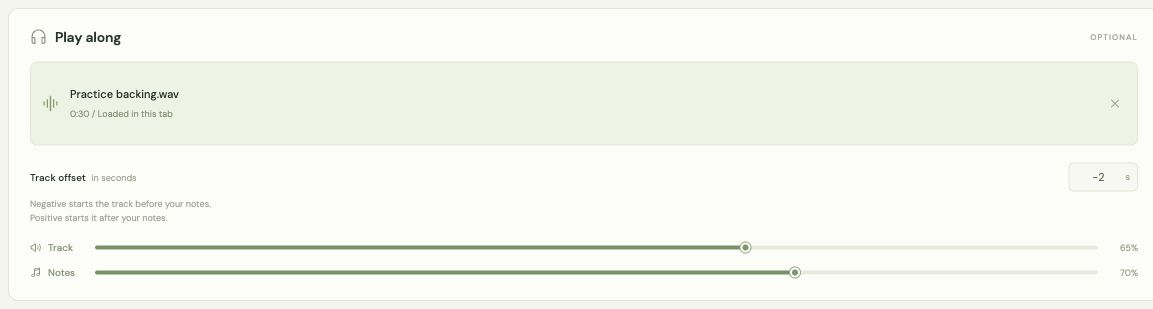
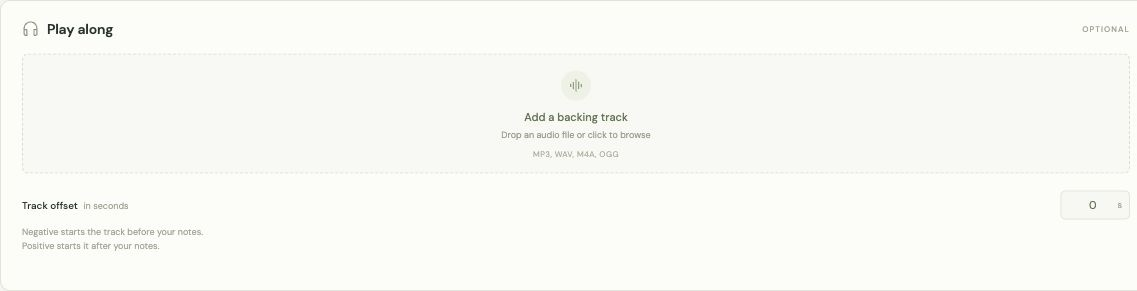
Move Track and Notes volume sliders into the player (#2)
Replace the two mute buttons with Track and Notes percentage sliders in the player. Convert saved mute states to visible 0% volumes and let Notes volume control the metronome too. Refresh README text and screenshots.

Validation: 108 tests, static build, and desktop/mobile browser checks passed.

diff --git a/index.html b/index.html
@@ -31,7 +31,10 @@
         <div class="transport-card">
           <div class="transport-top"><div class="transport-buttons"><button class="icon-button" id="restart" aria-label="Restart from beginning" title="Restart (Home)"><span data-icon="restart"></span></button><button class="icon-button" id="previous" aria-label="Previous note" title="Previous note"><span data-icon="previous"></span></button><button class="play-button" id="play" aria-label="Play"><span data-icon="play"></span><span id="play-label">Play</span></button><button class="icon-button" id="next" aria-label="Next note" title="Next note (Right arrow)"><span data-icon="next"></span></button><button class="icon-button" id="loop" aria-label="Loop score" aria-pressed="false" title="Loop score"><span data-icon="loop"></span></button></div><div class="time-display"><span id="elapsed">0:00</span><span>/</span><span id="total-time">0:00</span></div></div>
           <input id="seek" type="range" min="0" max="1" value="0" step="0.001" aria-label="Playback position">
-          <div class="playback-mutes" role="group" aria-label="Playback sound"><button class="mute-button" id="note-mute" type="button" aria-label="Mute notes and metronome" aria-pressed="false"><span data-mute-icon></span><span>Notes</span><span class="mute-state">On</span></button><button class="mute-button" id="background-mute" type="button" aria-label="Mute backing track" aria-pressed="false"><span data-mute-icon></span><span>Backing track</span><span class="mute-state">On</span></button></div>
+          <div class="playback-volumes" role="group" aria-label="Playback volume">
+          <div class="volume-row"><label for="background-volume"><span data-icon="volume"></span> Track</label><input id="background-volume" type="range" min="0" max="100" value="65" aria-label="Backing track volume"><output id="background-volume-value">65%</output></div>
+          <div class="volume-row"><label for="note-volume"><span data-icon="music"></span> Notes</label><input id="note-volume" type="range" min="0" max="100" value="70" aria-label="Note volume"><output id="note-volume-value">70%</output></div>
+          </div>
           <div class="transport-settings"><div class="setting sound-setting"><label for="instrument">HARMONICA SOUND</label><select id="instrument" aria-describedby="instrument-status"><option value="synth">Synthesized reed</option><option value="fluid">FluidR3 harmonica</option><option value="vcsl">VCSL chromatic harmonica</option></select><span id="instrument-status" class="instrument-status" role="status"></span></div><button class="metronome-button" id="metronome" aria-pressed="false"><span data-icon="metronome"></span><span>Metronome</span><span class="toggle-track"></span></button></div>
         </div>
         <div class="practice-tip"><span data-icon="spark"></span><p>Start slow. A clean note at 60 BPM beats a rushed one at 120.</p><kbd>space</kbd><span class="shortcut-label">hold for draw</span></div>
@@ -56,8 +59,6 @@
           <button class="upload-zone" id="upload-background"><span class="upload-circle" data-icon="audio"></span><strong>Add a backing track</strong><span>Drop an audio file or click to browse</span><small>MP3, WAV, M4A, OGG</small></button>
           <div class="loaded-track" id="loaded-track" hidden><span class="track-icon" data-icon="audio"></span><div><strong id="track-name"></strong><span id="track-duration"></span></div><button class="icon-button" id="remove-background" aria-label="Remove backing track"><span data-icon="close"></span></button></div>
           <div class="offset-row"><label for="background-offset">Track offset <span class="muted">in seconds</span></label><div class="offset-input"><input id="background-offset" type="number" step="0.1" min="-600" max="600" value="0" aria-describedby="offset-help"><span>s</span></div></div><p class="offset-help" id="offset-help">Negative starts the track before your notes.<br>Positive starts it after your notes.</p>
-          <div class="volume-row"><label for="background-volume"><span data-icon="volume"></span> Track</label><input id="background-volume" type="range" min="0" max="100" value="65" aria-label="Backing track volume"><output id="background-volume-value">65%</output></div>
-          <div class="volume-row"><label for="note-volume"><span data-icon="music"></span> Notes</label><input id="note-volume" type="range" min="0" max="100" value="70" aria-label="Note volume"><output id="note-volume-value">70%</output></div>
         </section>
         <p class="privacy-note"><span data-icon="lock"></span> Your music stays in your browser. Always.</p>
       </aside>

diff --git a/audio.test.js b/audio.test.js
@@ -204,7 +204,7 @@ test('mute combinations change live sound without stopping or seeking either cha
     audio.setNoteMuted(noteMuted);
     audio.setBackgroundMuted(backgroundMuted);
     assert.equal(audio._noteGain.gain.events.at(-1).value, noteMuted ? 0 : 0.7);
-    assert.equal(audio._clickGain.gain.events.at(-1).value, noteMuted ? 0 : 0.65);
+    assert.equal(audio._clickGain.gain.events.at(-1).value, noteMuted ? 0 : 0.65 * 0.7);
     assert.equal(audio._backgroundGain.gain.events.at(-1).value, backgroundMuted ? 0 : 0.65);
     assert.equal(audio.isPlaying, true);
     assert.equal(audio.metronomeEnabled, true);
@@ -241,7 +241,7 @@ test('muting before audio starts is honored and changing muted volumes stays sil
   audio.setNoteMuted(false);
   audio.setBackgroundMuted(false);
   assert.equal(audio._noteGain.gain.events.at(-1).value, 0.45);
-  assert.equal(audio._clickGain.gain.events.at(-1).value, 0.65);
+  assert.equal(audio._clickGain.gain.events.at(-1).value, 0.65 * 0.45);
   assert.equal(audio._backgroundGain.gain.events.at(-1).value, 0.9);
 });
 
@@ -255,6 +255,37 @@ test('notes mute controls an already held manual note without restarting it', as
   assert.equal(audio._noteGain.gain.events.at(-1).value, 0.7);
   assert.equal(audio._manualVoice, voice);
   assert.equal(voice.source.stops.length, 0);
+});
+
+test('Notes volume scales both notes and metronome, with zero silent before startup and during playback', async t => {
+  const audio = makeAudio(t);
+  audio.setNoteVolume(0);
+  audio.setMetronome(true);
+  assert.equal(audio._context, null);
+  await addBackground(audio);
+  await audio.play({ notes: score, bpm: 120 });
+  const context = audio._context;
+  assert.equal(audio._noteGain.gain.value, 0);
+  assert.equal(audio._clickGain.gain.value, 0);
+  assert.equal(audio._backgroundGain.gain.value, 0.65);
+  const sources = [...context.nodes];
+  const stops = sources.map(source => [...source.stops]);
+  const startTime = audio._startTime;
+  const endTime = audio._endTime;
+  context.currentTime = 0.535;
+  for (const volume of [0.3, 0.8, 0]) {
+    audio.setNoteVolume(volume);
+    assert.equal(audio._noteGain.gain.events.at(-1).value, volume);
+    assert.equal(audio._clickGain.gain.events.at(-1).value, 0.65 * volume);
+    assert.equal(audio._backgroundGain.gain.events.length, 0);
+    assert.equal(audio.isPlaying, true);
+    assert.equal(audio.metronomeEnabled, true);
+    assert.equal(audio._startTime, startTime);
+    assert.equal(audio._endTime, endTime);
+    close(audio.getPosition(), 1);
+    assert.deepEqual(context.nodes, sources);
+    assert.deepEqual(sources.map(source => source.stops), stops);
+  }
 });
 
 test('manual notes sustain the requested pitch through the shared note volume without moving the score', async t => {

diff --git a/app.js b/app.js
@@ -19,7 +19,6 @@ const icons = {
   headphones:'<path d="M3 14v-3a9 9 0 0 1 18 0v3M3 13h4v8H5a2 2 0 0 1-2-2Zm18 0h-4v8h2a2 2 0 0 0 2-2Z"/>',
   audio:'<path d="M12 3v18M8 7v10M4 10v4m12-7v10m4-7v4"/>',
   volume:'<path d="m11 4-6 5H2v6h3l6 5Zm4 4a6 6 0 0 1 0 8m3-11a10 10 0 0 1 0 14"/>',
-  muted:'<path d="m11 4-6 5H2v6h3l6 5ZM16 9l6 6m0-6-6 6"/>',
   lock:'<rect x="5" y="10" width="14" height="11" rx="2"/><path d="M8 10V6a4 4 0 0 1 8 0v4m-4 5v2"/>',
   close:'<path d="m6 6 12 12M6 18 18 6"/>', check:'<path d="m5 12 4 4L19 6"/>',
   pencil:'<path d="m16 3 5 5-12 12-6 1 1-6Zm-3 3 5 5"/>',
@@ -159,13 +158,10 @@ function applyProject() {
   $('loop').setAttribute('aria-pressed', String(project.loop));
   audio.setNoteVolume(project.noteVolume / 100);
   audio.setBackgroundVolume(project.backgroundVolume / 100);
-  audio.setNoteMuted(project.noteMuted);
-  audio.setBackgroundMuted(project.backgroundMuted);
   audio.setMetronome(project.metronome);
   $('instrument').value = project.instrument;
   void selectInstrument();
   updateVolumes();
-  updateMutes();
   refreshScore();
 }
 function refreshScore() {
@@ -370,18 +366,6 @@ $('background-offset').addEventListener('input', () => { if ($('background-offse
 $('background-offset').addEventListener('change', setOffset);
 $('metronome').addEventListener('click', () => { project.metronome = !project.metronome; audio.setMetronome(project.metronome); $('metronome').setAttribute('aria-pressed', String(project.metronome)); save(); });
 $('loop').addEventListener('click', () => { project.loop = !project.loop; $('loop').setAttribute('aria-pressed', String(project.loop)); save(); });
-function updateMutes() {
-  for (const [type, label] of [['note', 'Notes'], ['background', 'Backing track']]) {
-    const muted = project[`${type}Muted`];
-    const button = $(`${type}-mute`);
-    button.setAttribute('aria-pressed', String(muted));
-    button.querySelector('[data-mute-icon]').innerHTML = icon(muted ? 'muted' : 'volume');
-    button.querySelector('.mute-state').textContent = muted ? 'Muted' : 'On';
-    button.title = `${muted ? 'Unmute' : 'Mute'} ${label.toLowerCase()}${type === 'note' ? ' and metronome' : ''}`;
-  }
-}
-$('note-mute').addEventListener('click', () => { project.noteMuted = !project.noteMuted; audio.setNoteMuted(project.noteMuted); updateMutes(); save(); });
-$('background-mute').addEventListener('click', () => { project.backgroundMuted = !project.backgroundMuted; audio.setBackgroundMuted(project.backgroundMuted); updateMutes(); save(); });
 function updateVolumes() {
   ['note','background'].forEach(type => { $(`${type}-volume-value`).textContent = `${$(`${type}-volume`).value}%`; setRangeFill($(`${type}-volume`)); });
 }

diff --git a/project.test.js b/project.test.js
@@ -34,8 +34,8 @@ test('JSON and .chroma round trips retain settings but never background audio', 
     backgroundOffset: -2.125,
     noteVolume: 12,
     backgroundVolume: 81,
-    noteMuted: true,
-    backgroundMuted: true,
+    noteMuted: false,
+    backgroundMuted: false,
     metronome: true,
     loop: true,
   };
@@ -145,11 +145,40 @@ test('old projects and plain-text imports start with both channels unmuted', () 
   }
 });
 
-test('each mute combination survives export and import independently of volume', () => {
+test('each legacy mute combination becomes a visible zero volume with no hidden mute flag', () => {
   for (const noteMuted of [false, true]) {
     for (const backgroundMuted of [false, true]) {
       const project = { ...DEFAULT_PROJECT, noteMuted, backgroundMuted, noteVolume: 36, backgroundVolume: 82 };
-      assert.deepEqual(parseProjectFile(serializeProject(project), 'mix.chroma'), project);
+      const expected = {
+        ...project,
+        noteVolume: noteMuted ? 0 : 36,
+        backgroundVolume: backgroundMuted ? 0 : 82,
+        noteMuted: false,
+        backgroundMuted: false,
+      };
+      assert.deepEqual(validateProject(project, { allowInvalidNotation: true }), expected);
+      assert.deepEqual(parseProjectFile(JSON.stringify(project), 'old-mix.chroma'), expected);
+      assert.deepEqual(parseProjectFile(serializeProject(project), 'mix.chroma'), expected);
+    }
+  }
+});
+
+test('migrated mute volumes remain editable and never restore a hidden mute on save or export', () => {
+  const restored = validateProject({ ...DEFAULT_PROJECT, noteMuted: true, backgroundMuted: true });
+  assert.equal(restored.noteVolume, 0);
+  assert.equal(restored.backgroundVolume, 0);
+  const adjusted = { ...restored, noteVolume: 42, backgroundVolume: 73 };
+  assert.deepEqual(validateProject(adjusted), adjusted);
+  assert.deepEqual(parseProjectFile(serializeProject(adjusted), 'audible.chroma'), adjusted);
+  assert.equal(adjusted.noteMuted, false);
+  assert.equal(adjusted.backgroundMuted, false);
+});
+
+test('zero and nonzero slider volumes round-trip independently', () => {
+  for (const noteVolume of [0, 36, 100]) {
+    for (const backgroundVolume of [0, 82, 100]) {
+      const project = { ...DEFAULT_PROJECT, noteVolume, backgroundVolume };
+      assert.deepEqual(parseProjectFile(serializeProject(project), 'volumes.chroma'), project);
     }
   }
 });

diff --git a/styles.css b/styles.css
@@ -39,10 +39,10 @@ main{max-width:1440px;margin:auto;padding:39px max(5vw,24px) 0}.page-heading{dis
 
 /* The existing twelve holes double as a playable instrument. */
 .hole{min-width:0;padding:0;touch-action:none;user-select:none;-webkit-user-select:none}
-.playback-mutes{display:flex;flex-wrap:wrap;gap:8px;margin-top:16px}
-.mute-button{display:inline-flex;align-items:center;gap:7px;padding:7px 10px;border:1px solid #dce4d3;border-radius:6px;background:#f0f5e9;color:#526d44;font-size:10px;line-height:1.3}
-.mute-button svg{width:14px;height:14px}.mute-button:hover{background:#e6eedc}.mute-state{font-size:9px;font-weight:600;margin-left:3px}
-.mute-button[aria-pressed=true]{background:#f6e9e1;border-color:#dfc8bb;color:#8c5943}.mute-button[aria-pressed=true]:hover{background:#efdfd4}
+.playback-volumes{display:grid;grid-template-columns:repeat(2,minmax(0,1fr));gap:16px 32px;margin-top:16px}
+.playback-volumes .volume-row{margin-top:0}
+.playback-volumes .volume-row output{min-width:32px;font-variant-numeric:tabular-nums}
+@media(max-width:580px){.playback-volumes{grid-template-columns:minmax(0,1fr);gap:12px}}
 .hole:hover{border-color:#a4ba98;background:#34423a}
 .hole.active.blow:hover{background:#b4edb1}.hole.active.draw:hover{background:#eab09a}
 .hole:focus-visible{outline:2px solid #c2e7b0;outline-offset:2px}

diff --git a/audio.js b/audio.js
@@ -97,7 +97,7 @@ export class PracticeAudio {
     this._clickGain = context.createGain();
     this._noteGain.gain.value = this.noteMuted ? 0 : this.noteVolume;
     this._backgroundGain.gain.value = this.backgroundMuted ? 0 : this.backgroundVolume;
-    this._clickGain.gain.value = this.noteMuted ? 0 : 0.65;
+    this._clickGain.gain.value = this.noteMuted ? 0 : 0.65 * this.noteVolume;
     this._noteGain.connect(context.destination);
     this._backgroundGain.connect(context.destination);
     this._clickGain.connect(context.destination);
@@ -222,6 +222,7 @@ export class PracticeAudio {
   setNoteVolume(value) {
     this.noteVolume = clampVolume(value);
     this._setGain(this._noteGain, this.noteMuted ? 0 : this.noteVolume);
+    this._setGain(this._clickGain, this.noteMuted ? 0 : 0.65 * this.noteVolume);
   }
 
   setBackgroundVolume(value) {
@@ -232,7 +233,7 @@ export class PracticeAudio {
   setNoteMuted(muted) {
     this.noteMuted = Boolean(muted);
     this._setGain(this._noteGain, this.noteMuted ? 0 : this.noteVolume);
-    this._setGain(this._clickGain, this.noteMuted ? 0 : 0.65);
+    this._setGain(this._clickGain, this.noteMuted ? 0 : 0.65 * this.noteVolume);
   }
 
   setBackgroundMuted(muted) {

diff --git a/project.js b/project.js
@@ -103,6 +103,12 @@ export function validateProject(input, { allowInvalidNotation = false } = {}) {
       throw new Error(`${label} must be true or false.`);
     }
   }
+  // Older scores kept mute separate from volume. Show that state on the slider
+  // so raising its value always restores sound without a hidden mute flag.
+  for (const channel of ['note', 'background']) {
+    if (project[`${channel}Muted`]) project[`${channel}Volume`] = 0;
+    project[`${channel}Muted`] = false;
+  }
 
   const parsed = parseNotation(project.notation);
   project.tempo = parsed.tempo;

diff --git a/README.md b/README.md
@@ -17,7 +17,7 @@ Follow the falling notes or play the harmonica directly with your mouse and keyb
 - Three sounds: synthesized reed, FluidR3 harmonica, and recorded VCSL chromatic harmonica.
 - A playable harmonica with mouse, touch, and keyboard controls.
 - Local backing tracks with separate volume and positive or negative start offsets.
-- Independent mute controls for notes and backing audio, available during playback.
+- Separate Track and Notes volume sliders in the player, available during playback.
 - Plain-text copying, score import/export, and browser autosave.
 
 ChromaPlay is a static HTML, CSS, and JavaScript app. It has no application backend, account system, or third-party JavaScript dependencies.
@@ -139,7 +139,7 @@ When several hole keys are held, the last one pressed sounds. Releasing it retur
 
 These shortcuts stay inactive while typing in the editor or other fields, or while the notation guide is open. They do not override Ctrl/Command or Alt shortcuts. Leaving the tab or window stops a held note.
 
-Manual playing works with an empty score and uses the **Notes** volume and mute setting. It pauses score playback while keeping the current position.
+Manual playing works with an empty score and uses the **Notes** volume setting. It pauses score playback while keeping the current position.
 
 ### Tuning and sound
 
@@ -185,19 +185,19 @@ Drag the horizontal handle at the bottom of the visualization card up or down to
 
 Short notes keep their hole and slider labels, using a smaller font when needed. The visible time window adjusts with the visualizer height to keep those notes readable.
 
-### Muting during playback
+### Adjusting volume during playback
 
-The **Notes** and **Backing track** mute buttons below the progress bar work independently. Keep both audible, mute either one, or mute both for silent visual practice. You can change either setting during playback without moving the playhead or changing the saved volume levels.
+The **Track** and **Notes** sliders below the progress bar set each part's volume from **0% to 100%**. Set either one to **0%** to mute it, or both to **0%** for silent visual practice. Raising the slider restores its sound. You can adjust either volume during playback without moving the playhead.
 
-Muting notes also silences the metronome and manually played holes. The mute settings autosave with the score and are included in exported projects. Older projects open with both parts unmuted.
+The Notes slider also controls the metronome and manually played holes. Volumes autosave with the score and are included in exported projects. A muted part in an older saved score opens at 0%, so its state is visible and you can restore it with the slider.
 
 ## Backing tracks
 
 Choose a local audio file or drop it on the upload area. Supported formats depend on your browser; MP3 and WAV are good starting points. Files can be up to **100 MB**.
 
-Track and note volumes are separate. Use the playback mute buttons to silence either part without losing its volume setting. The audio file plays at its original speed; changing the score tempo does not stretch the track.
+Track and note volumes are separate. Adjust them with the sliders in the player panel. The audio file plays at its original speed; changing the score tempo does not stretch the track.
 
-![Backing track controls for choosing an audio file, setting its start offset, and adjusting the mix](docs/screenshots/backing-track.jpg)
+![Backing track controls for choosing an audio file and setting its start offset](docs/screenshots/backing-track.jpg)
 
 Choose a track from your device and adjust its timing to match the score.
 
@@ -215,7 +215,7 @@ A negative offset provides a lead-in when playing from the beginning or restarti
 
 The current score and settings autosave to this browser's local storage, including unfinished notation. Storage belongs to the browser and site address. Clearing browser data removes it, and scores saved at another ChromaPlay address do not appear here automatically. Use export/import to move them.
 
-- **Export score** downloads a `.chroma.json` file with the title, notation and its tempo/meter headers, sound choice, track offset, volumes, mute settings, metronome, and loop settings.
+- **Export score** downloads a `.chroma.json` file with the title, notation and its tempo/meter headers, sound choice, track offset, volumes, metronome, and loop settings.
 - **Import** accepts `.json` and `.chroma` projects, or `.txt` notation. Text imports keep tempo/meter headers, use defaults for omitted settings, and use the filename as the title. Version 1 projects are migrated to the current format automatically.
 - Imports validate notation and settings before replacing the score. Score files are limited to **1 MB**, and notation to **100,000 characters**.
 
